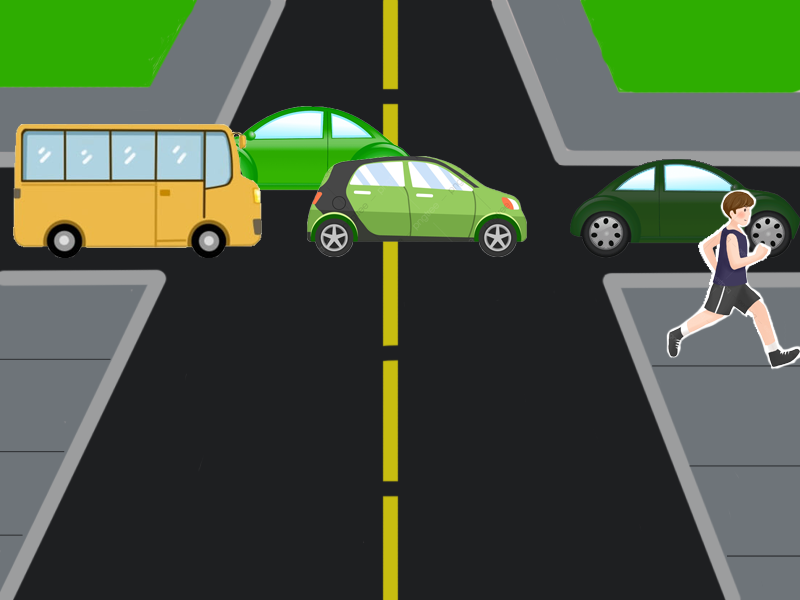
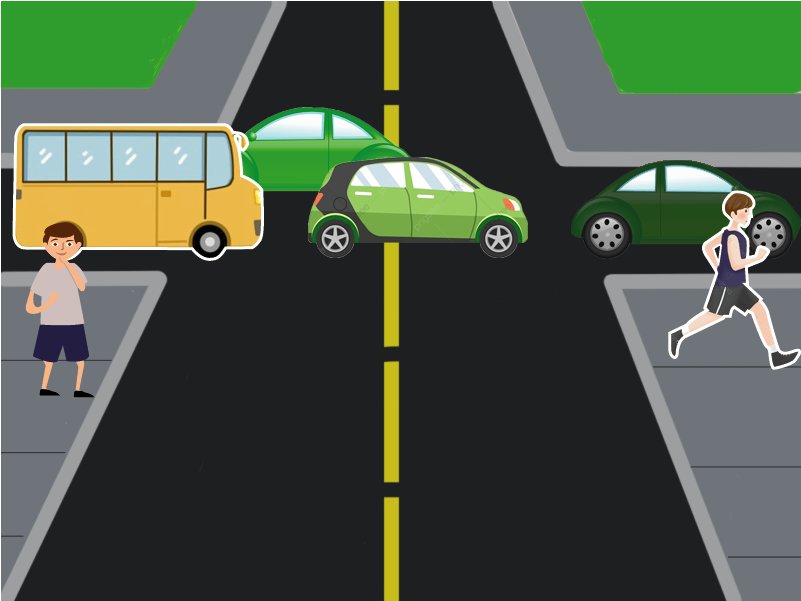
Add files via upload

diff --git a/sketch.js b/sketch.js
@@ -1,5 +1,5 @@
 var canvas;
-let estado = 'inicio';
+let estado = 'pantalla12';
 let fondos;
 let timer = 0;
 
@@ -31,7 +31,8 @@ function setup() {
   btnCortina = new Clickable();
   btnCortina.locate(10,height/2+100)
   btnCortina.onPress = function(){
-    estado = 'perderHermana';
+    timer = 0;
+    estado = 'hermanaMeEncuentra';
   }
 
   btnBilletera = new Clickable();
@@ -51,6 +52,7 @@ function setup() {
   btnArmario = new Clickable();
   btnArmario.locate(width/2-150,height/2);
   btnArmario.onPress = function(){
+    timer=0;
     estado = "pantalla5";
   }
 
@@ -67,7 +69,15 @@ function setup() {
   btnAmigo = new Clickable();
   btnAmigo.locate(width/2-100,(height/2)+70);
   btnAmigo.onPress = function (){
+    timer = 0;
     estado = "pantalla9";
+  }
+
+  btnChrome = new Clickable();
+  btnChrome.locate(width/2+40,(height/2)+70);
+  btnChrome.onPress = function (){
+    timer = 0;
+    estado = 'perderProfesor';
   }
 
   btnGuitarra2 = new Clickable();
@@ -80,6 +90,18 @@ function setup() {
   btnCorriendo.locate(width-100,height/2-50);
   btnCorriendo.onPress = function(){
     estado = "pantalla13";
+  }
+
+  btnBoliche = new Clickable();
+  btnBoliche.locate(90,150);
+  btnBoliche.onPress = function(){
+    estado = "perderFiesta";
+  }
+
+  btnMicro = new Clickable();
+  btnMicro.locate(100,200);
+  btnMicro.onPress = function(){
+    estado ="perderMicro";
   }
 
   btnGuitarra3 = new Clickable();
@@ -101,6 +123,9 @@ function preload(){
   ani_hermana2 = loadImage('fondo/hermana2.png');
   pantalla04 = loadImage('fondo/pantalla04.png');
 
+  hermanaMeEncuentra_img = loadImage('fondo/hermanMeEcuentra.png');
+
+  juanCortandoPasto = loadImage('fondo/pasto-01.png');
   anim_escaparHermana1 = loadImage('fondo/anim_escaparHermana1.png');
   anim_escaparHermana2 = loadImage('fondo/anim_escaparHermana2.png');
 
@@ -117,12 +142,16 @@ function preload(){
   correreleccion = loadImage('fondo/correreleccion.png');
   conQueTocar = loadImage('fondo/conQueTocar.png');
 
+  profesorNoViene = loadImage('fondo/profesorNoViene.png');
+
   tocarSinAmpli = loadImage('fondo/tocarSinAmpli.png');
 
   final = loadImage('fondo/fin.png');
   marca_final = loadImage('fondo/marca_final.png');
   creditos_final = loadImage('fondo/creditos_final.png');
-
+  juanCorriendo = loadImage ('fondo/juanCorriendo.png');
+  juanMicro = loadImage ('fondo/juanMicro.png'),
+  fiesta_img = loadImage('fondo/fiesta.png');
   perderMama1 = loadImage('fondo/perderMama1.png');
   perderHermana2 = loadImage('fondo/perderHermana2.png');
 }
@@ -171,8 +200,7 @@ function draw() {
     }
     print(timer)
     if(timer >= 1 && timer <= 3){
-      textSize(64);
-      text('Juan cortando pasto', width/2, height/2);
+      image(juanCortandoPasto,0,0,800,600);
     }else if (timer >= 1 && timer <= 3){
       image(ani_hermana1,0,0,800,600);
     }
@@ -201,6 +229,7 @@ function draw() {
     tiempo = tiempo - timer;
     if(tiempo <= 0){
       estado = "perderHermana";
+      timer = 0;
     }
     image(pantalla04,0,0,800,600); 
     timerHermana.draw();
@@ -223,9 +252,9 @@ function draw() {
     print(timer)
     if(timer >= 1 && timer <= 3){
       image(anim_escaparHermana1,0,0,800,600);
-    }else if (timer >= 3 && timer <= 5){
+    }else if (timer >= 3 && timer <= 6){
       image(anim_escaparHermana2,0,0,800,600);
-    }else if (timer >= 5 && timer <= 6){
+    }else if (timer >= 6 && timer <= 7){
       timer = 0;
       estado = "pantalla6";
     }
@@ -248,6 +277,17 @@ function draw() {
     timerAltillo.text = tiempo;
     btnGuitarra.draw();
   }
+  if(estado == "hermanaMeEncuentra"){
+    if (millis() - time >= wait) {
+      timer++;
+      print(timer);//if it is, do something
+      time = millis();//also update the stored time
+    }
+    image(hermanaMeEncuentra_img,0,0,800,600);
+    if(timer >= 3){
+      estado = "perderHermana";
+    }
+  }
   if(estado == "pantalla7"){
     print("pantalla7");
     if (millis() - time >= wait) {
@@ -263,6 +303,13 @@ function draw() {
   if(estado == "pantalla8"){
     image(celularDecision,0,0,800,600);
     btnAmigo.draw();
+    btnChrome.draw();
+  }
+  if(estado == "perderProfesor"){
+    image(profesorNoViene,0,0,800,600);
+    btnVolverJugar.locate(width/2,height/2);
+    btnVolverJugar.draw();
+
   }
   if(estado ==  "pantalla9"){
     image(juanAmigoGuitarra,0,0,800,600);
@@ -279,7 +326,16 @@ function draw() {
   if(estado == "pantalla10"){
     image(elegirGuitarra_Fiesta,0,0,800,600);
     btnGuitarra2.draw();
+    btnBoliche.draw();
   }
+  
+  if(estado == "perderFiesta"){
+    image(fiesta_img,0,0,800,600);
+    btnVolverJugar.locate(width/2,height/2);
+    btnVolverJugar.draw();
+
+  }
+
   if(estado == "pantalla11"){     ////////////////////
     image(juanGuitarraCampo,0,0,800,600);
     if (millis() - time >= wait) {
@@ -294,22 +350,32 @@ function draw() {
   if(estado == "pantalla12"){
     image(correreleccion,0,0,800,600);
     btnCorriendo.draw();
+    btnMicro.draw();
   }
+
+  if(estado == "perderMicro"){
+    image(juanMicro,0,0,800,600);
+    btnVolverJugar.locate(width/2,height-200);
+    btnVolverJugar.draw();
+  }
+
   if(estado == "pantalla13"){
-    textSize(64);
-    text('Juan cortando pasto', width/2, height/2);
+
+    image(juanCorriendo,0,0,800,600);
+    
     if (millis() - time >= wait) {
       timer++;
       print(timer);//if it is, do something
       time = millis();//also update the stored time
     }
-    if(timer >= 2){
+    if(timer >= 3){
       estado = "pantalla14";
     }
   }
   if(estado == "pantalla14"){
     image(conQueTocar,0,0,800,600);
     btnGuitarra3.draw();
+    
   }
   if(estado == "pantalla15"){
     if (millis() - time >= wait) {
